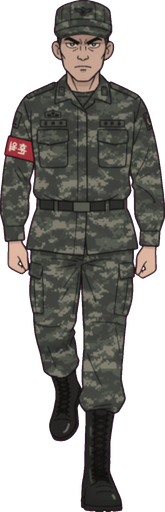
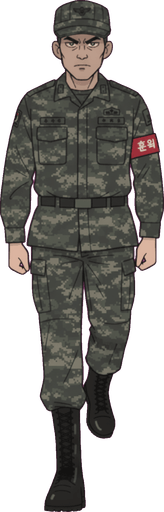
걷기/구보 반대위상 프레임 10장 진짜 렌더로 교체 — 미러 완전 제거, 4프레임 복원
- visitor_walk·duty_walk·player_dobok_walk_back·player_dobok_run(+back)의
  f3/f4를 제미나이 개별 렌더로 교체 (그림체·인물 동일성 컷별 검수:
  치비화/장발화/없던 완장 전량 반려 후 재생성, 폭 편차 ±4.4% 이내).
- 다섯 세트 모두 진짜 4프레임 사이클 복원 — 좌우반전 프레임 0장.

diff --git a/src/ui/Characters.ts b/src/ui/Characters.ts
@@ -91,13 +91,27 @@ const CYCLE4: Record<string, string[]> = {
   'senior.run': ['senior_run_f1', 'senior_run_f2', 'senior_run_f3', 'senior_run_f4'],
   'duty.run': ['duty_charge_f1', 'duty_charge_f2', 'duty_charge_f3', 'duty_charge_f4'],
   'duty.charge': ['duty_charge_f1', 'duty_charge_f2', 'duty_charge_f3', 'duty_charge_f4'],
-  // 아래 세트들은 f3/f4가 미러 프레임이라 머리 가르마·매듭이 반 사이클마다 뒤집혀
-  // 움찔거린다 — 진짜 프레임인 f1/f2만 순환한다 (재생성 전까지 2프레임)
-  'dobok.run': ['player_dobok_run_f1', 'player_dobok_run_f2'],
-  'dobok_back.run': ['player_dobok_run_back_f1', 'player_dobok_run_back_f2'],
-  'visitor.walk': ['visitor_walk_f1', 'visitor_walk_f2'],
-  'duty.walk': ['duty_walk_f1', 'duty_walk_f2'],
-  'dobok_back.walk': ['player_dobok_walk_back_f1', 'player_dobok_walk_back_f2'],
+  // 반대 위상(f3/f4)까지 전부 개별 렌더된 진짜 4프레임 사이클 — 미러 프레임 없음
+  'dobok.run': [
+    'player_dobok_run_f1',
+    'player_dobok_run_f2',
+    'player_dobok_run_f3',
+    'player_dobok_run_f4',
+  ],
+  'dobok_back.run': [
+    'player_dobok_run_back_f1',
+    'player_dobok_run_back_f2',
+    'player_dobok_run_back_f3',
+    'player_dobok_run_back_f4',
+  ],
+  'visitor.walk': ['visitor_walk_f1', 'visitor_walk_f2', 'visitor_walk_f3', 'visitor_walk_f4'],
+  'duty.walk': ['duty_walk_f1', 'duty_walk_f2', 'duty_walk_f3', 'duty_walk_f4'],
+  'dobok_back.walk': [
+    'player_dobok_walk_back_f1',
+    'player_dobok_walk_back_f2',
+    'player_dobok_walk_back_f3',
+    'player_dobok_walk_back_f4',
+  ],
 };
 
 /** 2프레임 순환 (걷기/구보 애니메이션) */
